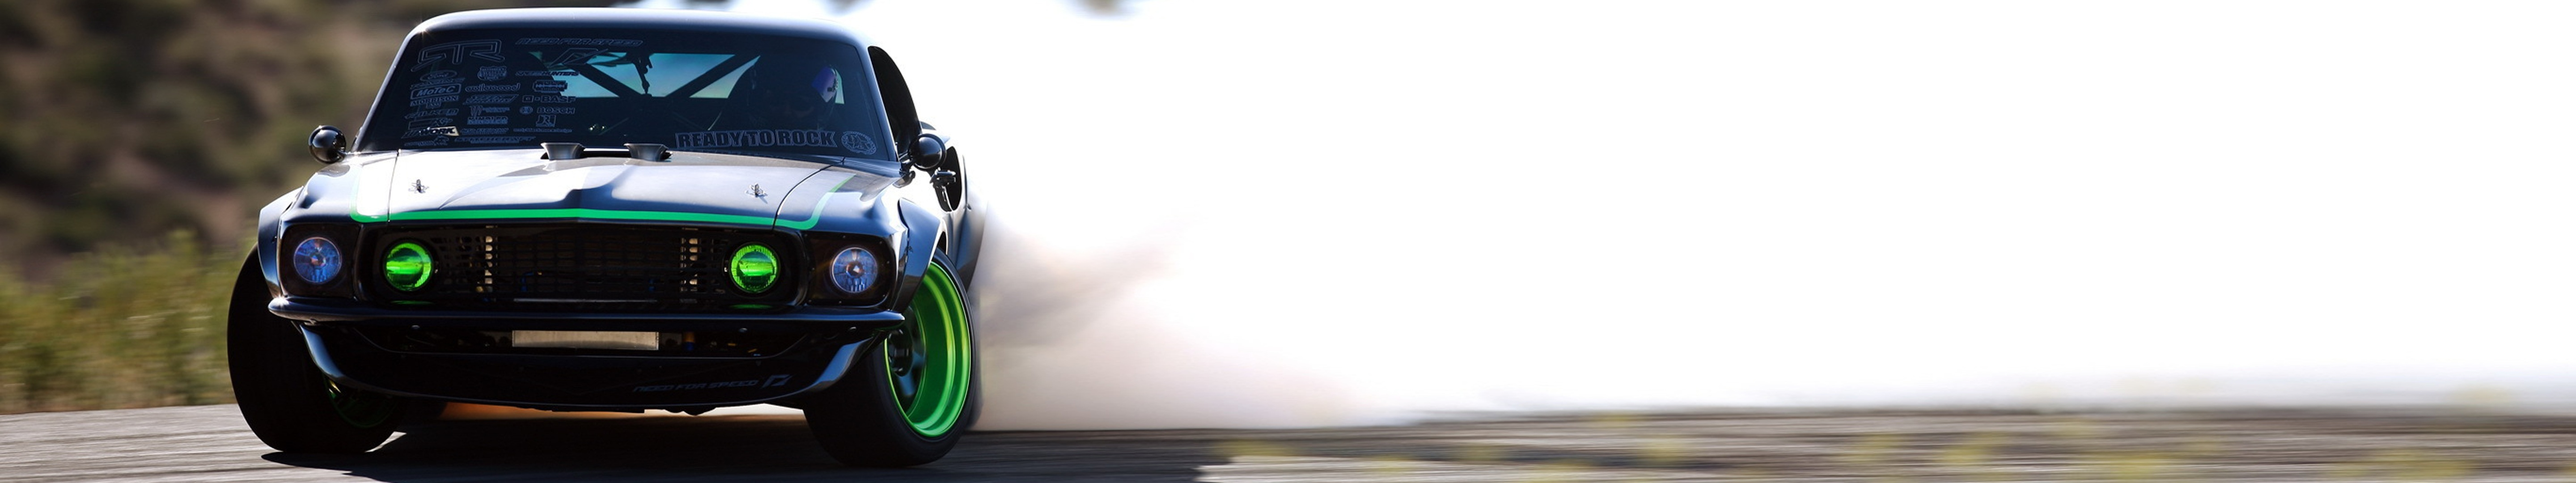
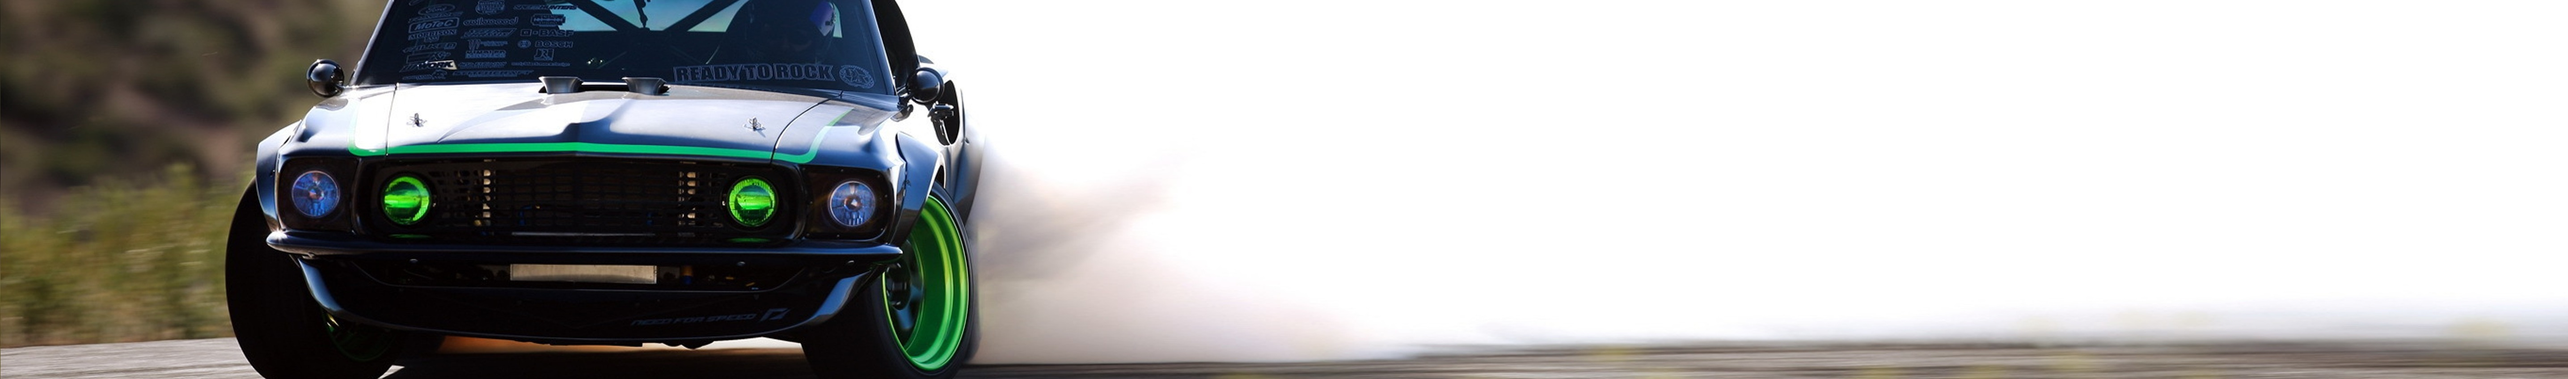
fixed profile path; bigger nav

Changed region(s): [[0.0, 0.0, 1.0, 1.0], [0.4051, 0.0, 0.4674, 0.0307], [0.0, 0.7052, 0.0312, 0.7358]]

diff --git a/app/static/css/navbar.css b/app/static/css/navbar.css
@@ -1,11 +1,30 @@
 /* Add a black background color to the top navigation */
 .topnav {
-  background-color: #333;
+  background-color: #222;
   overflow: hidden;
+  align-ve
 }
 
 .topnav ul {
-    padding-left: 60px;
+    padding-left: 10%;
+    margin: 30px;
+    display: flex;
+}
+
+.topnav li {
+    padding-left: 10%;
+}
+
+.nav-cropped{
+    display: inline-block;
+  position: relative;
+  height: 290px;
+  overflow: hidden;
+}
+
+.nav-cropped img{
+    width: auto;
+    height: 100%;
 }
 
 /* Style the links inside the navigation bar */
@@ -13,9 +32,9 @@
   float: left;
   color: #f2f2f2;
   text-align: center;
-  padding: 14px 16px;
+  padding: 10px 10px;
   text-decoration: none;
-  font-size: 17px;
+  font-size: 24px;
 }
 
 /* Change the color of links on hover */

diff --git a/app/templates/includes/_navbar.html b/app/templates/includes/_navbar.html
@@ -13,13 +13,13 @@
 <!--    </div>-->
 <!--    <div id="navbar" class="collapse navbar-collapse">-->
 
-      <ul class="nav navbar-nav">
+      <ul class="nav">
         {% if not session.logged_in %}
         <li><a href="/login">Login</a></li>
         <li><a href="/register">Register</a></li>
         {% endif %}
         {% if session.logged_in %}
-        <li><a href="/">Profile</a></li>
+        <li><a href="/profile">Profile</a></li>
         <li><a href="/cart">Match</a></li>
         <li><a href="/orders">Chat</a></li>
         <li><a href="/logout">Logout</a></li>

diff --git a/app/templates/layout.html b/app/templates/layout.html
@@ -9,7 +9,7 @@
 
   </head>
   <body>
-    <div align="justify"><img src="/static/car1.jpeg" width="100%" height="25%"/></div>
+    <div class="nav-cropped"><img  src="/static/car1.jpeg" /></div>
     {% include 'includes/_navbar.html' %}
     <div class="container">
       {% include 'includes/_messages.html' %}
